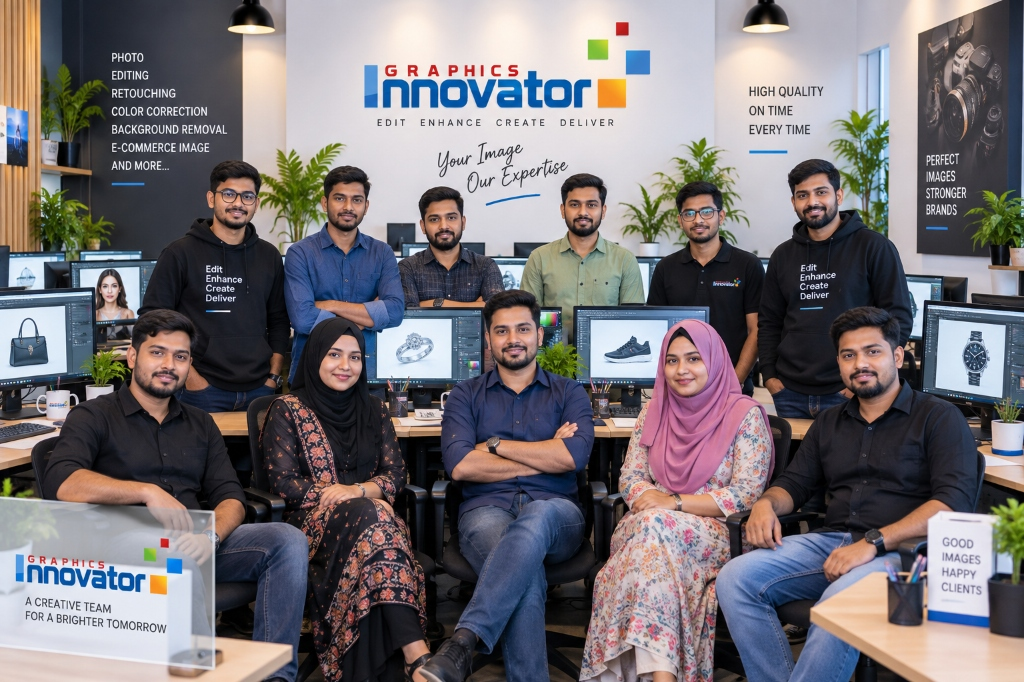
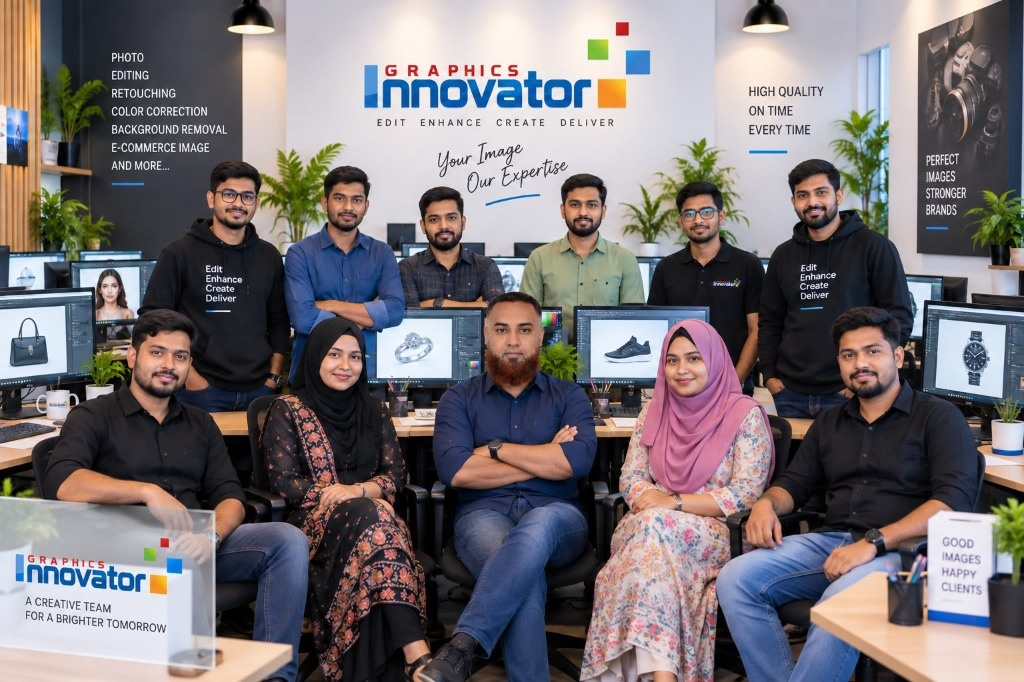
fix(about-us): replace About Us team showcase photo with high-res updated image

diff --git a/wp-content/themes/graphics-innovator/style.css b/wp-content/themes/graphics-innovator/style.css
@@ -4,7 +4,7 @@ Theme URI:   https://graphicsinnovator.com
 Author:      Custom Development
 Author URI:  https://graphicsinnovator.com
 Description: Enterprise-grade custom WordPress theme for Graphics Innovator — a professional eCommerce photo editing agency. Zero plugin dependency, blazing performance, dark luxury aesthetic.
-Version:     1.0.37
+Version:     1.0.38
 Requires at least: 5.8
 Tested up to: 6.5
 Requires PHP: 7.4

diff --git a/wp-content/themes/graphics-innovator/page-about.php b/wp-content/themes/graphics-innovator/page-about.php
@@ -44,8 +44,8 @@ $base_url = $upload_dir['baseurl'];
             <div data-gi-animate="fade-up" data-gi-delay="120">
                 <div class="gi-about-image-frame" style="position: relative; border-radius: 20px; overflow: hidden; box-shadow: 0 25px 60px rgba(0,0,0,0.5), 0 0 35px rgba(42, 106, 238, 0.15); border: 1px solid rgba(255,255,255,0.12); transition: transform 0.4s ease;">
                     <picture>
-                        <source srcset="<?php echo esc_url( get_template_directory_uri() . '/about-team.webp' ); ?>" type="image/webp">
-                        <img src="<?php echo esc_url( get_template_directory_uri() . '/about-team.jpg' ); ?>" 
+                        <source srcset="<?php echo esc_url( get_template_directory_uri() . '/about-team.webp?v=' . GI_VERSION ); ?>" type="image/webp">
+                        <img src="<?php echo esc_url( get_template_directory_uri() . '/about-team.jpg?v=' . GI_VERSION ); ?>" 
                              alt="<?php esc_attr_e( 'Graphics Innovator Production Team & Studio Operations', 'graphics-innovator' ); ?>" 
                              width="1024" 
                              height="682"

diff --git a/wp-content/themes/graphics-innovator/functions.php b/wp-content/themes/graphics-innovator/functions.php
@@ -16,7 +16,7 @@ if ( ! defined( 'ABSPATH' ) ) {
 // ─────────────────────────────────────────────
 //  THEME CONSTANTS
 // ─────────────────────────────────────────────
-define( 'GI_VERSION',  '1.0.37' );
+define( 'GI_VERSION',  '1.0.38' );
 define( 'GI_ROOT',     get_template_directory() );
 define( 'GI_ROOT_URI', get_template_directory_uri() );
 define( 'GI_ASSETS',   GI_ROOT_URI . '/assets' );
